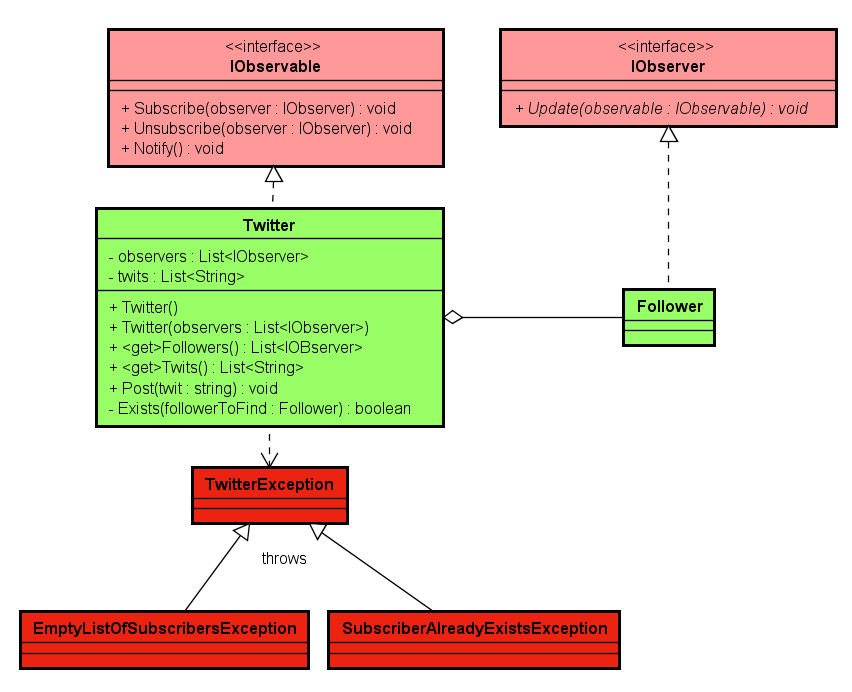
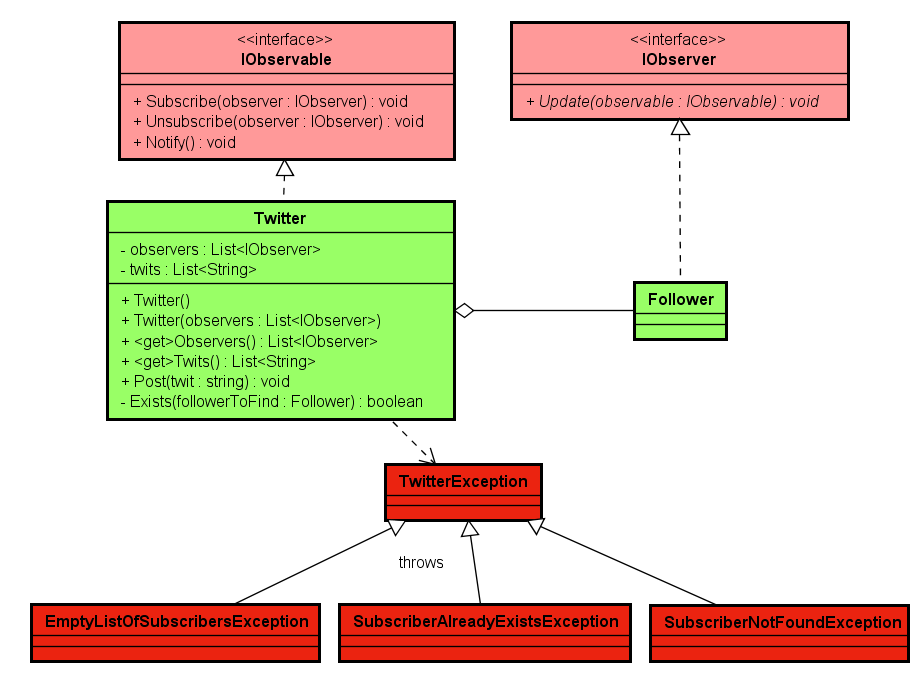
Add Unsubscribe Test, Subscriber not found

diff --git a/TestModel/TestTwitter.cs b/TestModel/TestTwitter.cs
@@ -123,6 +123,20 @@ namespace TestSocialNetworkModel
         }
 
         [Test]
+        public void Unsubscribe_EmptyListOfSubscriber_ThrowsException()
+        {
+            //given
+            //refer to Setup method
+            Follower followerToRemove = new Follower();
+
+            //when
+            //event is called directly by the assertion
+
+            //then
+            Assert.Throws<EmptyListOfSubscribersException>(delegate { _twitter.Unsubscribe(followerToRemove); });
+        }
+
+        [Test]
         public void Unsubscribe_SubscriberNotFound_ThrowsException()
         {
             //given

diff --git a/Model/Twitter.cs b/Model/Twitter.cs
@@ -83,4 +83,5 @@
     public class TwitterException : Exception { }
     public class EmptyListOfSubscribersException : TwitterException { }
     public class SubscriberAlreadyExistsException : TwitterException { }
+    public class SubscriberNotFoundException : TwitterException { }
 }
